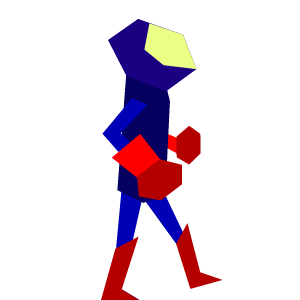
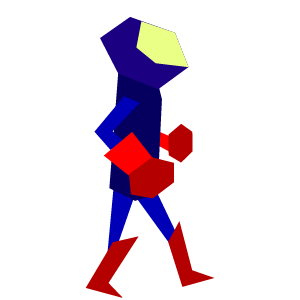
Update class Actor

Changed region(s): [[0.27, 0.06, 0.75, 1.0]]

diff --git a/core/src/com/mygdx/game/Nox.java b/core/src/com/mygdx/game/Nox.java
@@ -1,144 +1,300 @@
 package com.mygdx.game;
 
+import com.badlogic.gdx.Gdx;
 import com.badlogic.gdx.graphics.g2d.Sprite;
 import com.badlogic.gdx.graphics.g2d.SpriteBatch;
 import com.badlogic.gdx.graphics.g2d.TextureAtlas;
 
 public class Nox extends Actor {
-	
-	protected Nox(int bn_front, int bn_back, int bn_jump, int bn_kneel, int bn_punch, int bn_kick, boolean mirror,	int player) {
+
+	protected Nox(int bn_front, int bn_back, int bn_jump, int bn_kneel, int bn_punch, int bn_kick, boolean mirror,
+			int player) {
 		super(bn_front, bn_back, bn_jump, bn_kneel, bn_punch, bn_kick, mirror, player);
 	}
 
 	@Override
 	protected void init() {
-		
+
 		pack = new TextureAtlas("../core/assets/Actor/Nox/notmirror/Nox.pack");
 		frame = pack.findRegion("00");
 		SActor = new Sprite(frame);
-		SActor.setPosition(PlayingState.WORLD_WIDTH / 4, PlayingState.GROUND);
-		
-		
+		SActor.setPosition(PlayingState.WORLD_WIDTH / 5, PlayingState.GROUND);
+
 		mpack = new TextureAtlas("../core/assets/Actor/Nox/notmirror/Nox.pack");
 		mframe = mpack.findRegion("00");
 		MSActor = new Sprite(mframe);
-		MSActor.setPosition(PlayingState.WORLD_WIDTH - PlayingState.WORLD_WIDTH / 4 - MSActor.getWidth(),
+		MSActor.setPosition(PlayingState.WORLD_WIDTH - PlayingState.WORLD_WIDTH / 5 - MSActor.getWidth(),
 				PlayingState.GROUND);
-		
+
 		if (mirror == false) {
 			SActor.setAlpha(1f);
 			MSActor.setAlpha(0f);
 
-			POX = PlayingState.WORLD_WIDTH / 5;
+			POX = PlayingState.WORLD_WIDTH / 4;
 
 		} else if (mirror) {
 			MSActor.setAlpha(1f);
 			SActor.setAlpha(0f);
 
-			POX = PlayingState.WORLD_WIDTH - PlayingState.WORLD_WIDTH / 5 - MSActor.getWidth();
+			POX = PlayingState.WORLD_WIDTH - PlayingState.WORLD_WIDTH / 4 - MSActor.getWidth();
 
 		}
-		
+
 		POY = PlayingState.GROUND;
-		
+
 	}
 
 	@Override
 	protected void draw(SpriteBatch batch) {
+
+		if (mirror == false) {
+			SActor.setAlpha(1f);
+			MSActor.setAlpha(0f);
+
+		} else if (mirror) {
+			MSActor.setAlpha(1f);
+			SActor.setAlpha(0f);
+
+		}
 		
 		SActor.draw(batch);
 		MSActor.draw(batch);
-	
+
 	}
 
 	@Override
 	protected void update(float dt) {
-		// TODO Auto-generated method stub
+
+		handle();
+
+		SActor.setPosition(POX, POY);
+		MSActor.setPosition(POX, POY);
 		
+		DELAY -= dt;
+		if(DELAY <= 0) {
+			DELAY = 0;
+		}
+		
+		if (STATUS == STAND) {
+			stand();
+		}
+		if(STATUS == KNEEL) {
+			kneel();
+		}
+		if(STATUS == JUMP) {
+			jump();
+		}
+		
+		if(DELAY <= 0) {
+			action(cmdlog);
+		}
+
 	}
 
 	@Override
 	protected void handle() {
-		// TODO Auto-generated method stub
-		
+
+		if (InputManager.keyIspressed(BN_JUMP)) {
+			cmdlog += "J";
+			DELAY = 0.1f;
+		}
+		if (InputManager.keyIspressed(BN_KNEEL)) {
+			cmdlog += "C";
+			DELAY = 0.2f;
+		}
+		if (InputManager.keyIspressed(BN_FRONT)) {
+			cmdlog += "F";
+		}
+		if (InputManager.keyIspressed(BN_BACK)) {
+			cmdlog += "B";
+		}
+		if (InputManager.keyIspressed(BN_PUNCH)) {
+			cmdlog += "P";
+		}
+		if (InputManager.keyIspressed(BN_KICK)) {
+			cmdlog += "K";
+		}
+
 	}
 
 	@Override
 	protected void dispose() {
 		// TODO Auto-generated method stub
-		
+
 	}
 
 	@Override
 	protected void action(String combo) {
-		// TODO Auto-generated method stub
 		
+		if(combo.equals("C")) {
+			STATUS = KNEEL;
+			cmdlog = "";
+			animationtime = 0;
+		}
+		if(combo.equals("J") && STATUS != JUMP) {
+			STATUS = JUMP;
+			cmdlog = "";
+			animationtime = 0.5f;
+		}
+		
+		cmdlog = "";
+
 	}
 
 	@Override
 	protected void stand() {
-		// TODO Auto-generated method stub
+
+		if(animationtime <= 0) {
+			animationtime = 0.3f;
+		}
+		animationType = LOOP;
+		
+		if(InputManager.keyIsdown(BN_FRONT)) {
+			if(animationtime <= 0) {
+				animationtime = 0.1f;
+			}
+			runframe(2, 4);
+			if (mirror) {
+				if (POX > 0) {
+					POX -= movespeed * Gdx.graphics.getDeltaTime();
+				}
+			} else if (!mirror) {
+				if (POX + SActor.getWidth() < PlayingState.WORLD_WIDTH) {
+					POX += movespeed * Gdx.graphics.getDeltaTime();
+				}
+			}
+		}
+		else if(InputManager.keyIsdown(BN_BACK)) {
+			if(animationtime <= 0) {
+				animationtime = 0.1f;
+			}
+			runframe(2, 4);
+			if (mirror) {
+				if (POX + SActor.getWidth() - SActor.getWidth() / 4 < PlayingState.WORLD_WIDTH
+						&& POX + SActor.getWidth() - SActor.getWidth() / 4 < PlayingState.camera.position.x
+								+ PlayingState.WIDTH / 2) {
+					POX += movespeed * Gdx.graphics.getDeltaTime();
+				}
+			} else if (!mirror) {
+				if (POX + SActor.getWidth() / 4 > 0
+						&& POX + SActor.getWidth() / 4 > PlayingState.camera.position.x - PlayingState.WIDTH / 2) {
+					POX -= movespeed * Gdx.graphics.getDeltaTime();
+				}
+			} else {
+				POX += 0;
+			}
+		}
+		else {
+			runframe(0, 1);
+		}
 		
 	}
 
 	@Override
 	protected void jump() {
-		// TODO Auto-generated method stub
 		
+		animationType = ONEWAY;
+		runframe(8, 9);
+		
+		if(animationtime > 0) {
+			POY += 800 * Gdx.graphics.getDeltaTime();
+		}
+		if(animationtime <= 0) {
+			POY -= 700 * Gdx.graphics.getDeltaTime();
+		}
+		if(POY <= PlayingState.GROUND) {
+			POY = PlayingState.GROUND;
+			STATUS = STAND;
+		}
+
 	}
 
 	@Override
 	protected void kneel() {
-		// TODO Auto-generated method stub
 		
+		if(animationtime <= 0) {
+			animationtime = 0.05f;
+		}
+		animationType = ONEWAY;
+		runframe(5, 7);
+		
+		if(!InputManager.keyIsdown(BN_KNEEL)) {
+			STATUS = STAND;
+		}
+
 	}
 
 	@Override
 	protected void guard(int type) {
 		// TODO Auto-generated method stub
-		
+
 	}
 
 	@Override
 	protected void hit() {
 		// TODO Auto-generated method stub
-		
+
 	}
 
 	@Override
 	protected void knockback(float movespeed, int type) {
 		// TODO Auto-generated method stub
-		
+
 	}
 
 	@Override
 	protected void runframe(int st, int en) {
-		// TODO Auto-generated method stub
+		
+		animationtime -= Gdx.graphics.getDeltaTime();
+		
+		if(animationtime <= 0) {
+			NOWframe++;
+		}
+		if(NOWframe < st) {
+			NOWframe = st;
+		}
+		if(NOWframe > en && animationType == LOOP) {
+			NOWframe = st;
+		}
+		if(NOWframe > en && animationType == ONEWAY) {
+			NOWframe = en;
+		}
+		if (mirror) {
+			mframe = mpack.findRegion(String.format("%02d", NOWframe));
+			MSActor.setRegion(mframe);
+		}
+		if (!mirror) {
+			frame = pack.findRegion(String.format("%02d", NOWframe));
+			SActor.setRegion(frame);
+		}
 		
 	}
 
 	@Override
 	protected void setBN_FRONT(int bn) {
-		// TODO Auto-generated method stub
-		
+
+		this.BN_FRONT = bn;
+
 	}
 
 	@Override
 	protected void setBN_BACK(int bn) {
-		// TODO Auto-generated method stub
-		
+
+		this.BN_BACK = bn;
+
 	}
 
 	@Override
 	protected void setMIRROR(boolean b) {
-		// TODO Auto-generated method stub
-		
+		this.mirror = b;
+
 	}
 
 	@Override
 	protected void setAnotherPlayer(Actor Player) {
-		// TODO Auto-generated method stub
-		
+
+		this.Anotherplayer = Player;
+
 	}
 
 }

diff --git a/core/src/com/mygdx/game/Actor.java b/core/src/com/mygdx/game/Actor.java
@@ -17,11 +17,13 @@ public abstract class Actor {
 	protected boolean mirror;
 	
 	protected float HP = 500;
+	protected float movespeed = 200;
 	
 	protected float POX = 0;
 	protected float POY = 0;
 	
 	protected float animationtime = 0;
+	protected String cmdlog = "";
 	
 	protected Sprite SActor;
 	protected TextureAtlas pack;
@@ -30,6 +32,24 @@ public abstract class Actor {
 	protected Sprite MSActor;
 	protected TextureAtlas mpack;
 	protected TextureRegion mframe;
+	
+	protected int STATUS = 0;
+	protected final int STAND = 0;
+	protected final int JUMP = 1;
+	protected final int KNEEL = 2;
+	protected final int GUARD = 3;
+	protected final int HIT = 4;
+	
+	protected float DELAY = 0;
+	//animation
+	protected int NOWframe = 0;
+	protected int STframe = 0;
+	protected int ENDframe = 1;
+	protected int animationType = 0;
+	protected int LOOP = 0;
+	protected int ONEWAY = 1;
+	
+	protected Actor Anotherplayer;
 	
 	protected Actor(int bn_front, int bn_back, int bn_jump, int bn_kneel, int bn_punch, int bn_kick, boolean mirror, int player) {
 

diff --git a/core/src/com/mygdx/game/PlayingState.java b/core/src/com/mygdx/game/PlayingState.java
@@ -121,7 +121,6 @@ public class PlayingState extends State {
 		handle();
 
 		// Update Camera
-		camera.update();
 
 		centerPX = Math.abs(PLAYER1.POX - PLAYER2.POX);
 		centerPY = Math.abs(PLAYER1.POY - PLAYER2.POY);
@@ -240,6 +239,8 @@ public class PlayingState extends State {
 
 		PLAYER1.update(dt);
 		PLAYER2.update(dt);
+		
+		camera.update();
 
 	}
 
